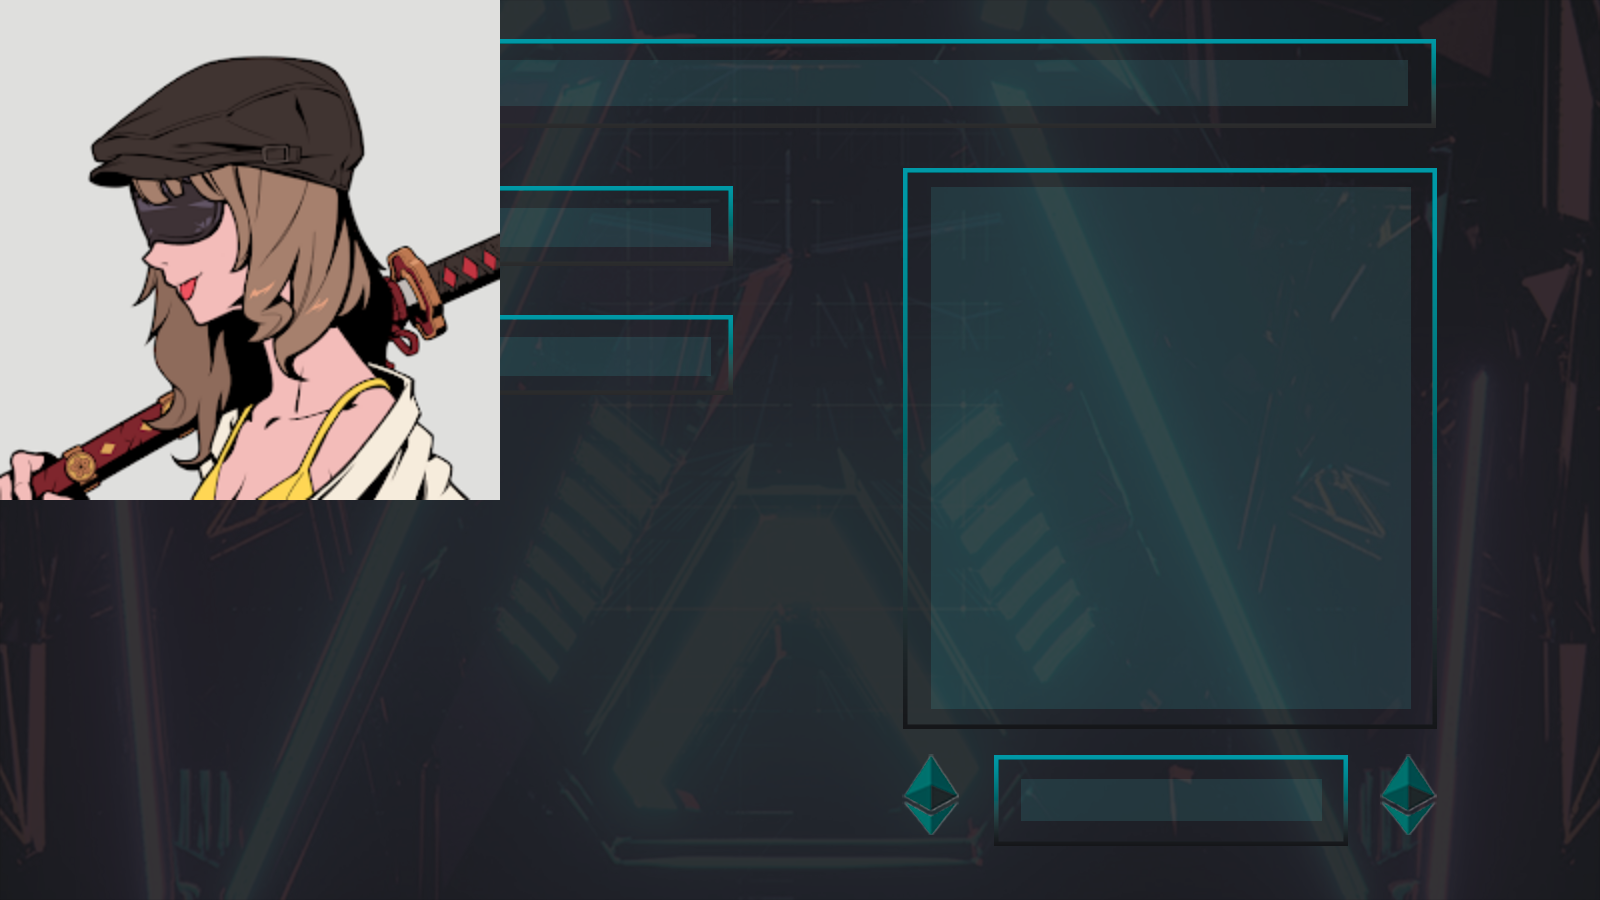
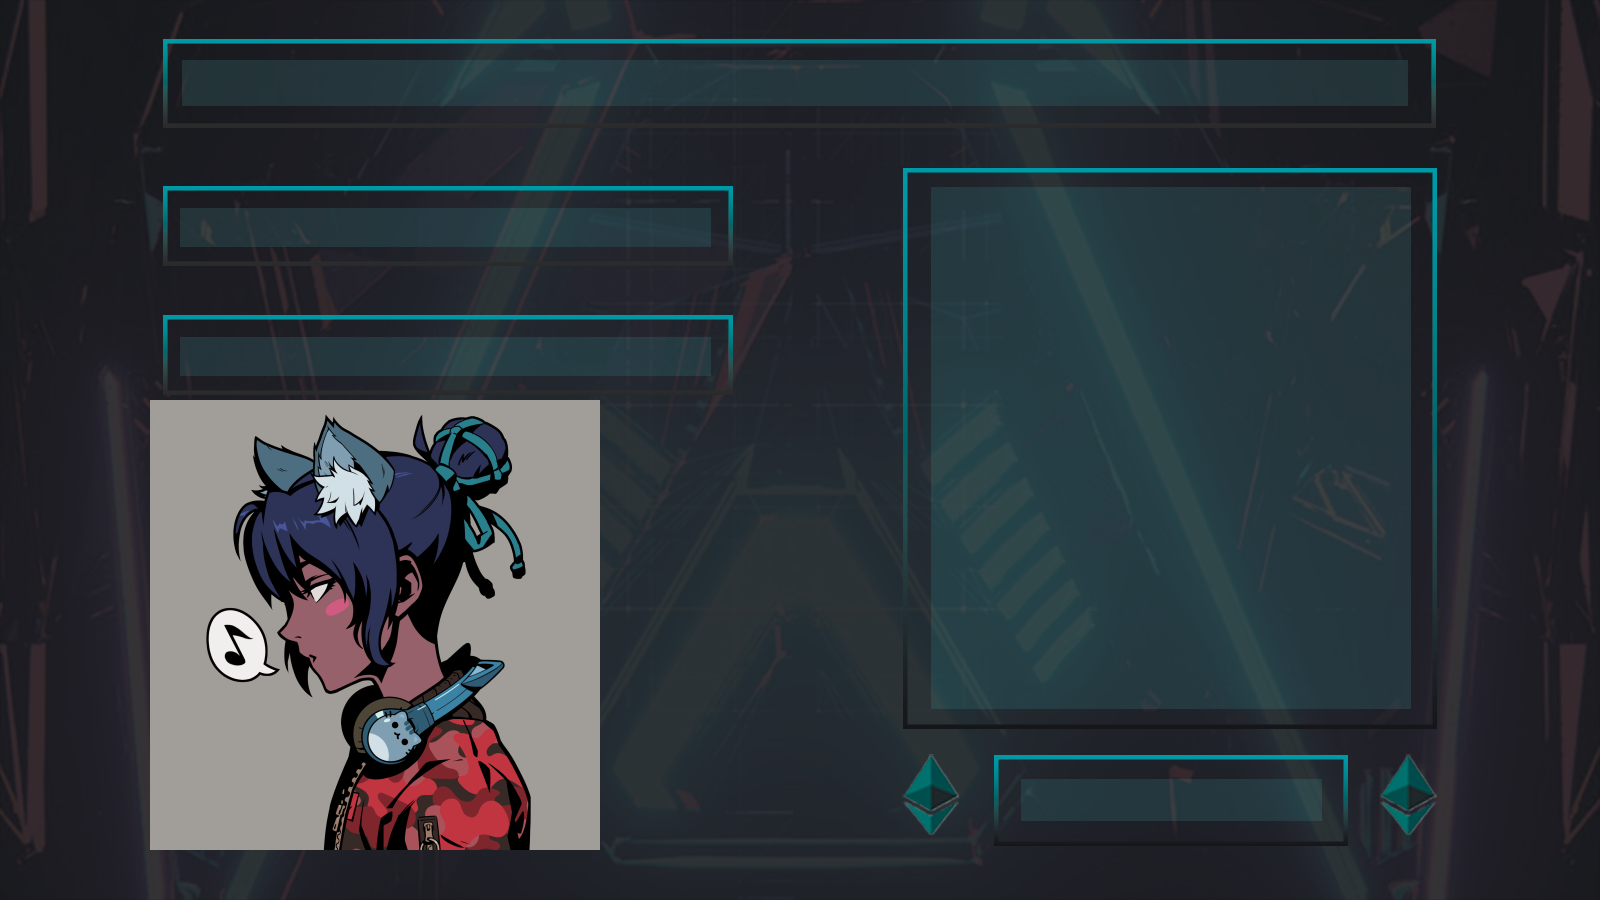
fixed crash

Changed region(s): [[0.0, 0.0, 0.375, 0.9644]]

diff --git a/commands/link.ts b/commands/link.ts
@@ -87,7 +87,7 @@ function drawNFT(nftData: Item){
         let background = await loadImage(
             path.join(__dirname, '../test.png')
         )
-        let nftImage = await loadImage(`${nftData.meta?.content[1].url}`)
+        let nftImage = await loadImage(`${nftData.meta?.content[0].url}`)
         
         /*let nftImage = await loadImage(
             path.join(__dirname, '../babies.png')
@@ -99,7 +99,7 @@ function drawNFT(nftData: Item){
         context.fillRect(0,0,1600,900)
         context.drawImage(background, 0,0,1600,900)
         //const buffer = canvas.toBuffer('image/png')
-        context.drawImage(nftImage,0,0,500,500) 
+        context.drawImage(nftImage,150,400,450,450) 
         const buffer = canvas.toBuffer('image/png')
         fs.writeFileSync('./commands/rarible.png',buffer)
         resolve(true)

diff --git a/commands/imagelink.ts b/commands/imagelink.ts
@@ -38,7 +38,7 @@ export default{
             embed
             .setTitle(`${nftData.meta?.name}`)
             .setDescription(`${nftData.collection}`)
-            .setImage(`${nftData.meta?.content[2].url}`)
+            .setImage(`${nftData.meta?.content[0].url}`)
 
             return embed    
             
